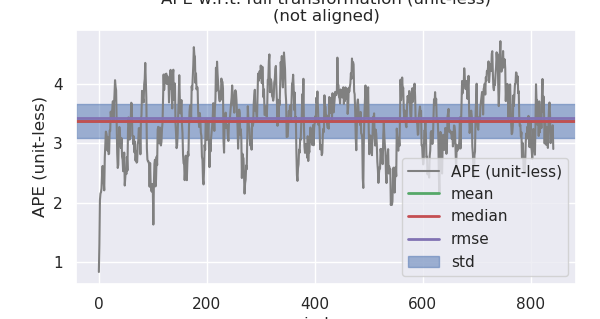
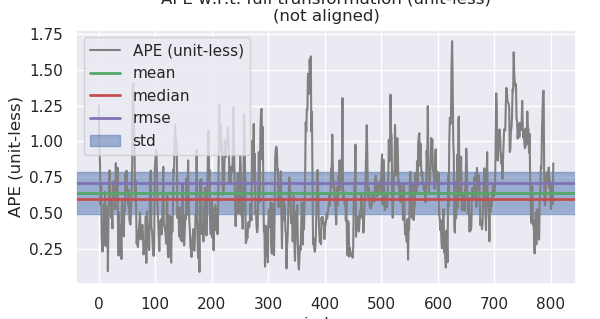
Fix save_odometry bug.

diff --git a/workspace/assignments/04-imu-lidar-gnss-fusion/src/lidar_localization/src/filtering/imu_gnss_filtering_flow.cpp b/workspace/assignments/04-imu-lidar-gnss-fusion/src/lidar_localization/src/filtering/imu_gnss_filtering_flow.cpp
@@ -99,7 +99,21 @@ bool IMUGNSSFilteringFlow::SaveOdometry(void) {
     for (size_t i = 0; i < trajectory.N; ++i) {
         SavePose(trajectory.fused_.at(i), fused_odom_ofs);
         SavePose(trajectory.gnss_.at(i), gnss_odom_ofs);
-        SavePose(trajectory.ref_.at(i), ref_odom_ofs);
+
+        // sync ref pose with gnss measurement:
+        while (
+            !ref_pose_data_buff_.empty() && 
+            (ref_pose_data_buff_.front().time - trajectory.time_.at(i) <= -0.005)
+        ) {
+            ref_pose_data_buff_.pop_front();
+        }
+    
+        if ( ref_pose_data_buff_.empty() ) {
+            break;
+        }
+        current_ref_pose_data_ = ref_pose_data_buff_.front();
+        
+        SavePose(current_ref_pose_data_.pose, ref_odom_ofs);
     }
 
     return true;
@@ -205,7 +219,7 @@ bool IMUGNSSFilteringFlow::CorrectLocalization() {
         PublishFusionOdom();
 
         // add to odometry output for evo evaluation:
-        UpdateOdometry();
+        UpdateOdometry(current_gnss_data_.time);
         
         LOG(INFO) << "Correct" << std::endl;
 
@@ -227,25 +241,11 @@ bool IMUGNSSFilteringFlow::PublishFusionOdom() {
     return true;
 }
 
-bool IMUGNSSFilteringFlow::UpdateOdometry(void) {
-    /*
-    // sync ref pose with gnss measurement:
-    while (
-        !ref_pose_data_buff_.empty() && 
-        (ref_pose_data_buff_.front().time - current_gnss_data_.time <= -0.005)
-    ) {
-        ref_pose_data_buff_.pop_front();
-    }
-    
-    if ( ref_pose_data_buff_.empty() ) {
-        return false;
-    }
-    
-    current_ref_pose_data_ = ref_pose_data_buff_.front();
-    */
+bool IMUGNSSFilteringFlow::UpdateOdometry(const double &time) {
+    trajectory.time_.push_back(time);
+
     trajectory.fused_.push_back(fused_pose_);
     trajectory.gnss_.push_back(current_gnss_data_.pose);
-    trajectory.ref_.push_back(current_ref_pose_data_.pose);
 
     ++trajectory.N;
 

diff --git a/workspace/assignments/04-imu-lidar-gnss-fusion/src/lidar_localization/include/lidar_localization/filtering/imu_gnss_filtering_flow.hpp b/workspace/assignments/04-imu-lidar-gnss-fusion/src/lidar_localization/include/lidar_localization/filtering/imu_gnss_filtering_flow.hpp
@@ -57,7 +57,7 @@ class IMUGNSSFilteringFlow {
 
     bool PublishFusionOdom();
 
-    bool UpdateOdometry();
+    bool UpdateOdometry(const double &time);
     /**
      * @brief  save pose in KITTI format for evo evaluation
      * @param  pose, input pose
@@ -102,6 +102,7 @@ class IMUGNSSFilteringFlow {
     struct {
       size_t N = 0;
 
+      std::deque<double> time_;
       std::deque<Eigen::Matrix4f> fused_;
       std::deque<Eigen::Matrix4f> gnss_;
       std::deque<Eigen::Matrix4f> ref_;

diff --git a/workspace/assignments/04-imu-lidar-gnss-fusion/README.md b/workspace/assignments/04-imu-lidar-gnss-fusion/README.md
@@ -251,8 +251,8 @@ IMU-GNSS ESKF, Acc         |IMU-GNSS ESKF, Turning
 
 | Scenario |  **Static**  | **Const. Velocity** |  **Turning** | **Acc & Deacc** |
 |:--------:|:------------:|:-------------------:|:------------:|:---------------:|
-|   GNSS   |   1.687825   |       1.687825      |   1.687825   |     1.687825    |
-| IMU-GNSS | **0.566759** |     **0.566759**    | **0.566759** |   **0.566759**  |
+|   GNSS   |   1.058485   |       1.110988      |   1.087577   |     1.070520    |
+| IMU-GNSS | **0.294847** |     **0.422899**    | **0.681078** |   **0.336837**  |
 
 Static, GNSS Only          |Static, IMU-GNSS
 :-------------------------:|:-------------------------:
@@ -260,15 +260,15 @@ Static, GNSS Only          |Static, IMU-GNSS
 
 Const. Velocity, GNSS Only |Const. Velocity, IMU-GNSS
 :-------------------------:|:-------------------------:
-![Const. Velocity, GNSS Only](doc/images/02-evo-static--gnss-only.png)  |  ![Const. Velocity IMU-GNSS Fusion](doc/images/02-evo-static--imu-gnss.png)
+![Const. Velocity, GNSS Only](doc/images/02-evo-const-velocity--gnss-only.png)  |  ![Const. Velocity IMU-GNSS Fusion](doc/images/02-evo-const-velocity--imu-gnss.png)
 
 Turning, GNSS Only         |Turning, IMU-GNSS
 :-------------------------:|:-------------------------:
-![Turning, GNSS Only](doc/images/02-evo-static--gnss-only.png)  |  ![Turning, IMU-GNSS Fusion](doc/images/02-evo-static--imu-gnss.png)
+![Turning, GNSS Only](doc/images/02-evo-turning--gnss-only.png)  |  ![Turning, IMU-GNSS Fusion](doc/images/02-evo-turning--imu-gnss.png)
 
 Acc & Deacc, GNSS Only     |Acc & Deacc, IMU-GNSS
 :-------------------------:|:-------------------------:
-![Acc & Deacc, GNSS Only](doc/images/02-evo-static--gnss-only.png)  |  ![Acc & Deacc, IMU-GNSS Fusion](doc/images/02-evo-static--imu-gnss.png)
+![Acc & Deacc, GNSS Only](doc/images/02-evo-acc--gnss-only.png)  |  ![Acc & Deacc, IMU-GNSS Fusion](doc/images/02-evo-acc--imu-gnss.png)
 
 
 `可观测性`和`可观测度`的分析流程如下:
